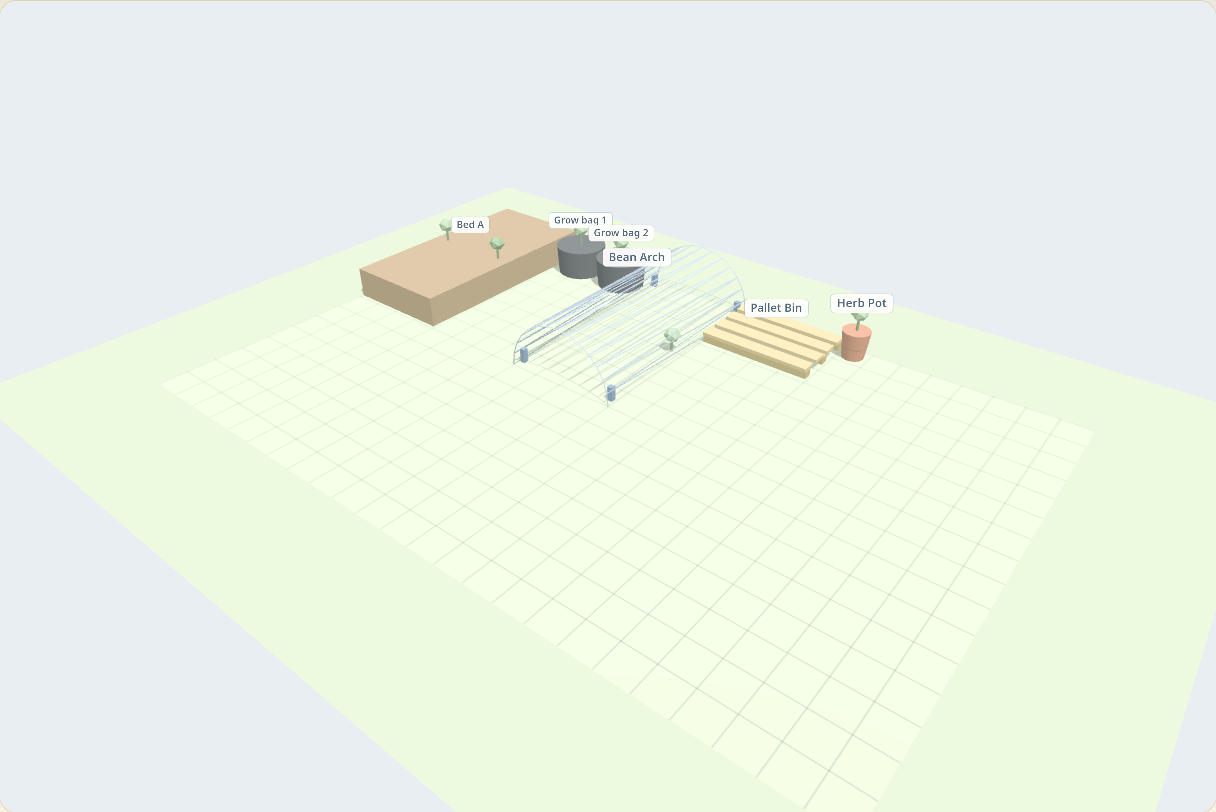
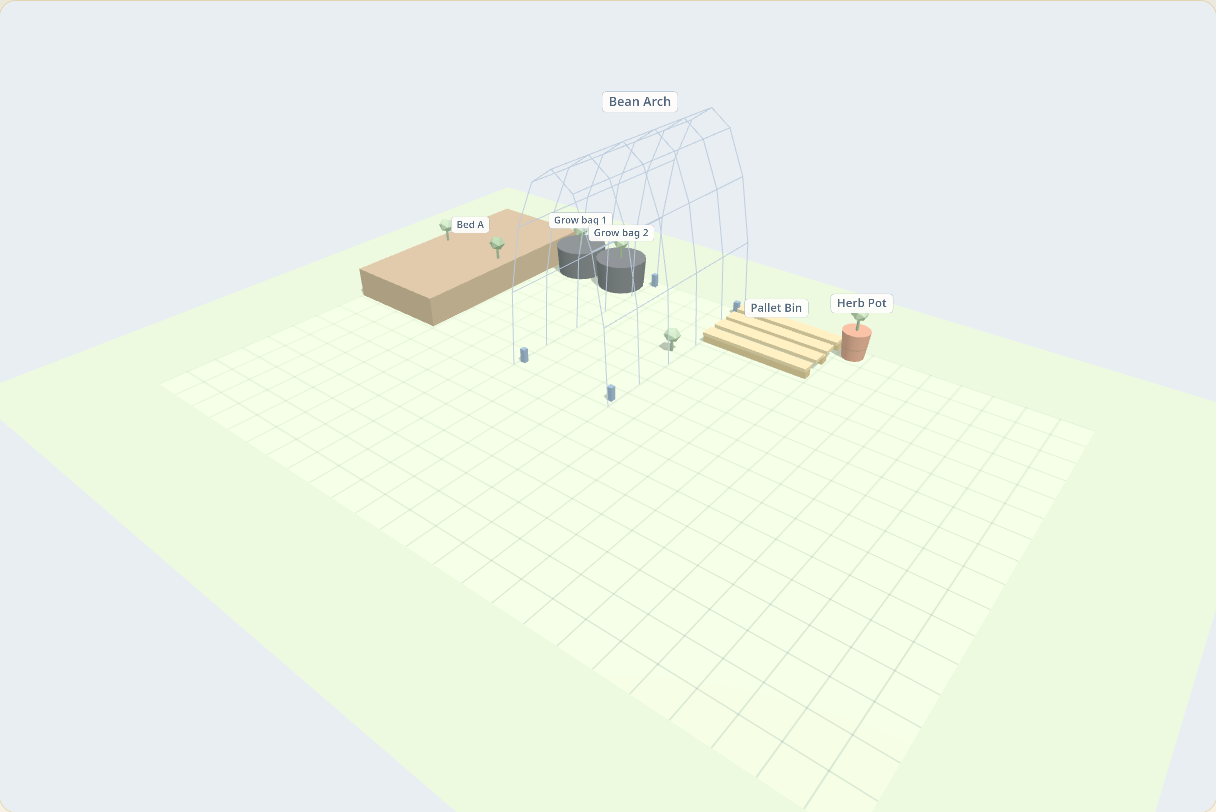
Planner: arch height — 7 ft by default, editable per container
- New optional Container.height_ft (auto-migrated, carried by copy-season,
  PATCH-clamped); create backfills the kind default (arch -> 7 ft).
- Arch default footprint is now 4x4 (was 4x8).
- Modal gains a Height (ft) field; picking the arch kind pre-fills 7.
- 3D arch rebuilt as a wire grid bent into a half-ellipse at the true
  height instead of a stretched semicircle, so a 7 ft arch reads like a
  real cattle panel, not a tower.
- README + planner-3d.png refreshed.

Tests: 143 pytest pass (new height create/patch tests); test_planner_3d.js
updated (4x4 span, modal height prefill).

diff --git a/app/static/js/planner.js b/app/static/js/planner.js
@@ -14,7 +14,8 @@
     'arch': 'bg-navy-100 ring-navy-300',
     'pallet': 'bg-beige-200 ring-beige-400',
   };
-  const FOOTPRINTS = { 'grow bag': [2, 2], 'raised bed': [4, 4], 'pot': [1, 1], 'planter': [3, 1], 'arch': [4, 8], 'pallet': [4, 3] };
+  const FOOTPRINTS = { 'grow bag': [2, 2], 'raised bed': [4, 4], 'pot': [1, 1], 'planter': [3, 1], 'arch': [4, 4], 'pallet': [4, 3] };
+  const KIND_HEIGHT = { 'arch': 7 }; // default height in feet, used by the 3D view
 
   function initPlanner() {
     const canvas = $('#planner-canvas');
@@ -245,6 +246,7 @@
       $('#container-grid-w').value = c && c.grid_w ? c.grid_w : fp[0];
       $('#container-grid-h').value = c && c.grid_h ? c.grid_h : fp[1];
       $('#container-size').value = c ? (c.size || '') : '';
+      $('#container-height').value = c && c.height_ft != null ? c.height_ft : (KIND_HEIGHT[c ? c.kind : 'grow bag'] || '');
       $('#container-volume-value').value = c && c.volume_value != null ? c.volume_value : '';
       $('#container-volume-unit').value = c ? (c.volume_unit || '') : '';
       $('#container-location').value = c && c.location_id ? c.location_id : '';
@@ -264,6 +266,7 @@
       const fp = FOOTPRINTS[e.target.value] || [2, 2];
       $('#container-grid-w').value = fp[0];
       $('#container-grid-h').value = fp[1];
+      $('#container-height').value = KIND_HEIGHT[e.target.value] || '';
     });
 
     $('#container-plant-add-btn').addEventListener('click', async () => {
@@ -321,6 +324,7 @@
         size: $('#container-size').value.trim(),
         volume_value: $('#container-volume-value').value ? Number($('#container-volume-value').value) : null,
         volume_unit: $('#container-volume-unit').value,
+        height_ft: $('#container-height').value ? Number($('#container-height').value) : null,
         location_id: $('#container-location').value ? Number($('#container-location').value) : null,
         soil_notes: $('#container-soil').value.trim(),
         season_year: year,
@@ -557,30 +561,49 @@
       g.userData.topY = 0.42;
     }
 
-    function buildArch(THREE, g, w, h) {
+    function buildArch(THREE, g, w, h, height) {
       const span = Math.min(w, h);
       const len = Math.max(w, h);
-      const r = Math.max(1, span / 2);
-      // half-cylinder shell: axis along X, top half only (reads as a panel arch)
-      const geo = new THREE.CylinderGeometry(r, r, len, 14, 1, true, 0, Math.PI);
-      geo.rotateZ(Math.PI / 2);
-      const panel = new THREE.Mesh(geo, new THREE.MeshStandardMaterial({
-        color: 0x7d97b9, wireframe: true, transparent: true, opacity: 0.85,
+      const a = Math.max(0.75, span / 2);
+      const hh = Math.max(1.5, height || 4);
+      // wire grid bent into a half-ellipse: ribs across the span, runs along the length
+      const nCross = 9;
+      const arcT = [];
+      for (let j = 0; j < nCross; j++) arcT.push((j / (nCross - 1)) * Math.PI);
+      const pts = [];
+      const nRibs = Math.max(4, Math.round(len * 0.75));
+      for (let i = 0; i < nRibs; i++) {
+        const z = -len / 2 + (i / (nRibs - 1)) * len;
+        let prev = null;
+        for (const t of arcT) {
+          const p = [a * Math.cos(t), hh * Math.sin(t), z];
+          if (prev) pts.push(...prev, ...p);
+          prev = p;
+        }
+      }
+      for (const t of arcT) {
+        const x = a * Math.cos(t), y = hh * Math.sin(t);
+        pts.push(x, y, -len / 2, x, y, len / 2);
+      }
+      const geo = new THREE.BufferGeometry();
+      geo.setAttribute('position', new THREE.Float32BufferAttribute(pts, 3));
+      const wires = new THREE.LineSegments(geo, new THREE.LineBasicMaterial({
+        color: 0x7d97b9, transparent: true, opacity: 0.9,
       }));
-      if (h > w) panel.rotation.y = Math.PI / 2; // run along Z when the footprint is taller
-      g.add(panel);
+      if (w > h) wires.rotation.y = Math.PI / 2; // run along X when the footprint is wider
+      g.add(wires);
       const footGeo = new THREE.BoxGeometry(0.18, 0.5, 0.18);
       const footMat = new THREE.MeshStandardMaterial({ color: 0x4f6d94, roughness: 0.8 });
-      const off = r - 0.15, along = len / 2 - 0.35;
-      const pts = h > w
-        ? [[-off, -along], [off, -along], [-off, along], [off, along]]
-        : [[-along, -off], [-along, off], [along, -off], [along, off]];
-      pts.forEach(([fx, fz]) => {
+      const off = a * 0.92, along = len / 2 - 0.35;
+      const corners = w > h
+        ? [[-along, -off], [-along, off], [along, -off], [along, off]]
+        : [[-off, -along], [off, -along], [-off, along], [off, along]];
+      corners.forEach(([fx, fz]) => {
         const f = new THREE.Mesh(footGeo, footMat);
         f.position.set(fx, 0.25, fz);
         g.add(f);
       });
-      g.userData.topY = r;
+      g.userData.topY = hh;
     }
 
     function addPlants3D(THREE, g, w, h, kind, c) {
@@ -706,7 +729,7 @@
         g.position.set((c.grid_x || 0) + w / 2 - cols / 2, 0, (c.grid_y || 0) + h / 2 - rows / 2);
         g.userData.containerId = c.id;
         const kind = c.kind || 'grow bag';
-        if (kind === 'arch') buildArch(THREE, g, w, h);
+        if (kind === 'arch') buildArch(THREE, g, w, h, c.height_ft || KIND_HEIGHT.arch || 4);
         else if (kind === 'pallet') buildPallet(THREE, g, w, h);
         else buildVessel(THREE, g, w, h, kind);
         addPlants3D(THREE, g, w, h, kind, c);

diff --git a/tests/test_planner_3d.js b/tests/test_planner_3d.js
@@ -58,7 +58,7 @@ const named = {};
  'container-modal', 'container-modal-title', 'container-submit',
  'container-delete', 'container-id', 'container-name', 'container-kind',
  'container-grid-w', 'container-grid-h',
- 'container-size', 'container-volume-value', 'container-volume-unit',
+ 'container-size', 'container-height', 'container-volume-value', 'container-volume-unit',
  'container-location', 'container-plantings',
  'container-plant-add', 'container-plant-add-btn', 'container-soil',
  'container-close', 'container-cancel', 'container-form',
@@ -95,7 +95,7 @@ global.fetch = async (url, options) => {
   else if (url === '/api/plants/') resp = [{ id: 5, variety_name: 'Kentucky Wonder' }];
   else if (url === '/api/locations/') resp = [];
   else if (url.startsWith('/api/containers/') && url.includes('year=')) resp = [
-    { id: 12, name: 'Bean Arch', kind: 'arch', grid_x: 2, grid_y: 2, grid_w: 4, grid_h: 8, season_year: 2026 },
+    { id: 12, name: 'Bean Arch', kind: 'arch', grid_x: 2, grid_y: 2, grid_w: 4, grid_h: 4, season_year: 2026 },
     { id: 13, name: 'Pallet Bin', kind: 'pallet', grid_x: 8, grid_y: 2, grid_w: 4, grid_h: 3, season_year: 2026 },
   ];
   else if (method !== 'GET') resp = { id: 99 };
@@ -127,10 +127,18 @@ const fire = (el, type, ev) => (el._listeners[type] || []).forEach((fn) => fn(ev
   const palletCard = canvas._children.find((c) => c.dataset && c.dataset.containerId === 13);
   check('arch card rendered', !!archCard);
   check('arch card shows bridge icon', archCard && archCard.innerHTML.includes('🌉'));
-  check('arch card spans 4x8 cells', archCard && archCard.style.gridColumn === '3 / span 4' && archCard.style.gridRow === '3 / span 8');
+  check('arch card spans 4x4 cells', archCard && archCard.style.gridColumn === '3 / span 4' && archCard.style.gridRow === '3 / span 4');
   check('pallet card rendered', !!palletCard);
   check('pallet card shows wood icon', palletCard && palletCard.innerHTML.includes('🪵'));
   check('arch card shows its plant', archCard && archCard.innerHTML.includes('Kentucky Wonder'));
+
+  // modal: arch kind pre-fills 4x4 footprint and 7 ft height
+  fire(named['#planner-add'], 'click');
+  check('new modal height blank for grow bag', named['#container-height'].value === '');
+  named['#container-kind'].value = 'arch';
+  fire(named['#container-kind'], 'change', { target: named['#container-kind'] });
+  check('arch kind pre-fills 4x4 footprint', named['#container-grid-w'].value === 4 && named['#container-grid-h'].value === 4);
+  check('arch kind pre-fills 7 ft height', named['#container-height'].value === 7);
 
   // view toggle exists, starts in 2D
   check('2D button active initially', named['#view-2d'].className.includes('bg-sage-200'));

diff --git a/app/templates/planner.html b/app/templates/planner.html
@@ -70,6 +70,7 @@
             </span>
           </label>
           <label class="block"><span class="lbl">Size</span><input id="container-size" class="inp" maxlength="40" placeholder="4x8 ft (beds)" /></label>
+          <label class="block"><span class="lbl">Height <span class="font-normal text-navy-400">(ft, 3D view)</span></span><input id="container-height" type="number" min="0" step="0.5" class="inp" placeholder="7 for arches" /></label>
           <label class="block"><span class="lbl">Volume <span class="font-normal text-navy-400">(pots / bags)</span></span>
             <span class="flex gap-1">
               <input id="container-volume-value" type="number" min="0" step="any" class="inp" placeholder="10" />

diff --git a/app/routers/containers.py b/app/routers/containers.py
@@ -69,8 +69,13 @@ def default_footprint(kind: str, size: str) -> tuple:
         return (4, 4)
     return {
         "grow bag": (2, 2), "pot": (1, 1), "planter": (3, 1),
-        "arch": (4, 8), "pallet": (4, 3),
+        "arch": (4, 4), "pallet": (4, 3),
     }.get(kind or "", (2, 2))
+
+
+def default_height(kind: str) -> Optional[float]:
+    """Default height in feet for a container kind (used by the 3D view)."""
+    return {"arch": 7.0}.get(kind or "")
 
 
 def _rects_overlap(ax, ay, aw, ah, bx, by, bw, bh) -> bool:
@@ -305,12 +310,20 @@ def create_container(payload: dict, session: Session = Depends(get_session)) -> 
     except (TypeError, ValueError):
         w, h = dw, dh
     gx, gy = first_free_spot(session, year, w, h, cols, rows)
+    raw_h = payload.get("height_ft")
+    try:
+        height_ft = float(raw_h) if raw_h not in (None, "") else default_height(kind)
+    except (TypeError, ValueError):
+        height_ft = default_height(kind)
+    if height_ft is not None:
+        height_ft = max(0.5, height_ft)
     container = Container(
         name=name,
         kind=kind,
         size=size,
         volume_value=payload.get("volume_value"),
         volume_unit=(payload.get("volume_unit") or "").strip().lower(),
+        height_ft=height_ft,
         location_id=payload.get("location_id"),
         season_year=year,
         x=float(payload.get("x", 10)),
@@ -341,6 +354,8 @@ def update_container(
                 value = max(0, int(value))
             if key in ("grid_w", "grid_h") and value is not None:
                 value = max(1, int(value))
+            if key == "height_ft":
+                value = None if value in (None, "") else max(0.5, float(value))
             setattr(container, key, value)
     session.add(container)
     session.commit()
@@ -378,6 +393,7 @@ def copy_season(
         copy = Container(
             name=src.name, kind=src.kind, size=src.size,
             volume_value=src.volume_value, volume_unit=src.volume_unit,
+            height_ft=src.height_ft,
             location_id=src.location_id, season_year=to_year,
             x=src.x, y=src.y,
             grid_x=src.grid_x, grid_y=src.grid_y,

diff --git a/tests/test_planner_v2.py b/tests/test_planner_v2.py
@@ -68,10 +68,28 @@ def test_container_gets_grid_placement_and_footprint():
     assert (pot["grid_w"], pot["grid_h"]) == (1, 1)
 
     arch = _container("Bean Arch", kind="arch", year=2035)
-    assert (arch["grid_w"], arch["grid_h"]) == (4, 8)
+    assert (arch["grid_w"], arch["grid_h"]) == (4, 4)
+    assert arch["height_ft"] == 7  # arches default to 7 ft tall
 
     pallet = _container("Pallet Bin", kind="pallet", year=2035)
     assert (pallet["grid_w"], pallet["grid_h"]) == (4, 3)
+    assert pallet["height_ft"] is None
+
+
+def test_container_height_create_and_patch():
+    bag = _container("Tall Bag", kind="grow bag", year=2035)
+    assert bag["height_ft"] is None
+
+    arch = _container("Custom Arch", kind="arch", year=2035, height_ft=8)
+    assert arch["height_ft"] == 8
+
+    r = client.patch(f"/api/containers/{arch['id']}", json={"height_ft": 6.5})
+    assert r.status_code == 200
+    assert r.json()["height_ft"] == 6.5
+
+    r = client.patch(f"/api/containers/{arch['id']}", json={"height_ft": None})
+    assert r.status_code == 200
+    assert r.json()["height_ft"] is None
 
 
 def test_new_containers_do_not_overlap():

diff --git a/app/models.py b/app/models.py
@@ -344,6 +344,8 @@ class Container(SQLModel, table=True):
     # Structured volume for pots/bags/planters (number + unit: gal, qt, L).
     volume_value: Optional[float] = None
     volume_unit: Optional[str] = Field(default="")
+    # Height in feet, used by the 3D planner view (arches default to 7).
+    height_ft: Optional[float] = Field(default=None)
     location_id: Optional[int] = Field(default=None, foreign_key="locations.id", index=True)
     season_year: int = Field(index=True)
     x: float = Field(default=10.0)  # legacy canvas position, 0-100 (superseded by grid_*)

diff --git a/README.md b/README.md
@@ -490,7 +490,8 @@ server local time. Test with `POST /api/digest/send`.
   a 10-gal grow bag, and new containers land in the first free spot instead of
   piling up. Containers now hold **many plants** (a bed lists everything in
   it), and a **🔁 rotation check** warns when the same plant family goes back
-  where it grew last season. New asset kinds: **cattle panel arches** and
+  where it grew last season. New asset kinds: **cattle panel arches** (7 ft
+  tall by default, height editable per container for the 3D view) and
   **pallets**. A **3D view** renders the whole plan in space — orbit around
   the yard, see every bed, bag, arch, and plant, click any of them to edit.
   Old free-form positions migrate to the grid automatically on first load.
